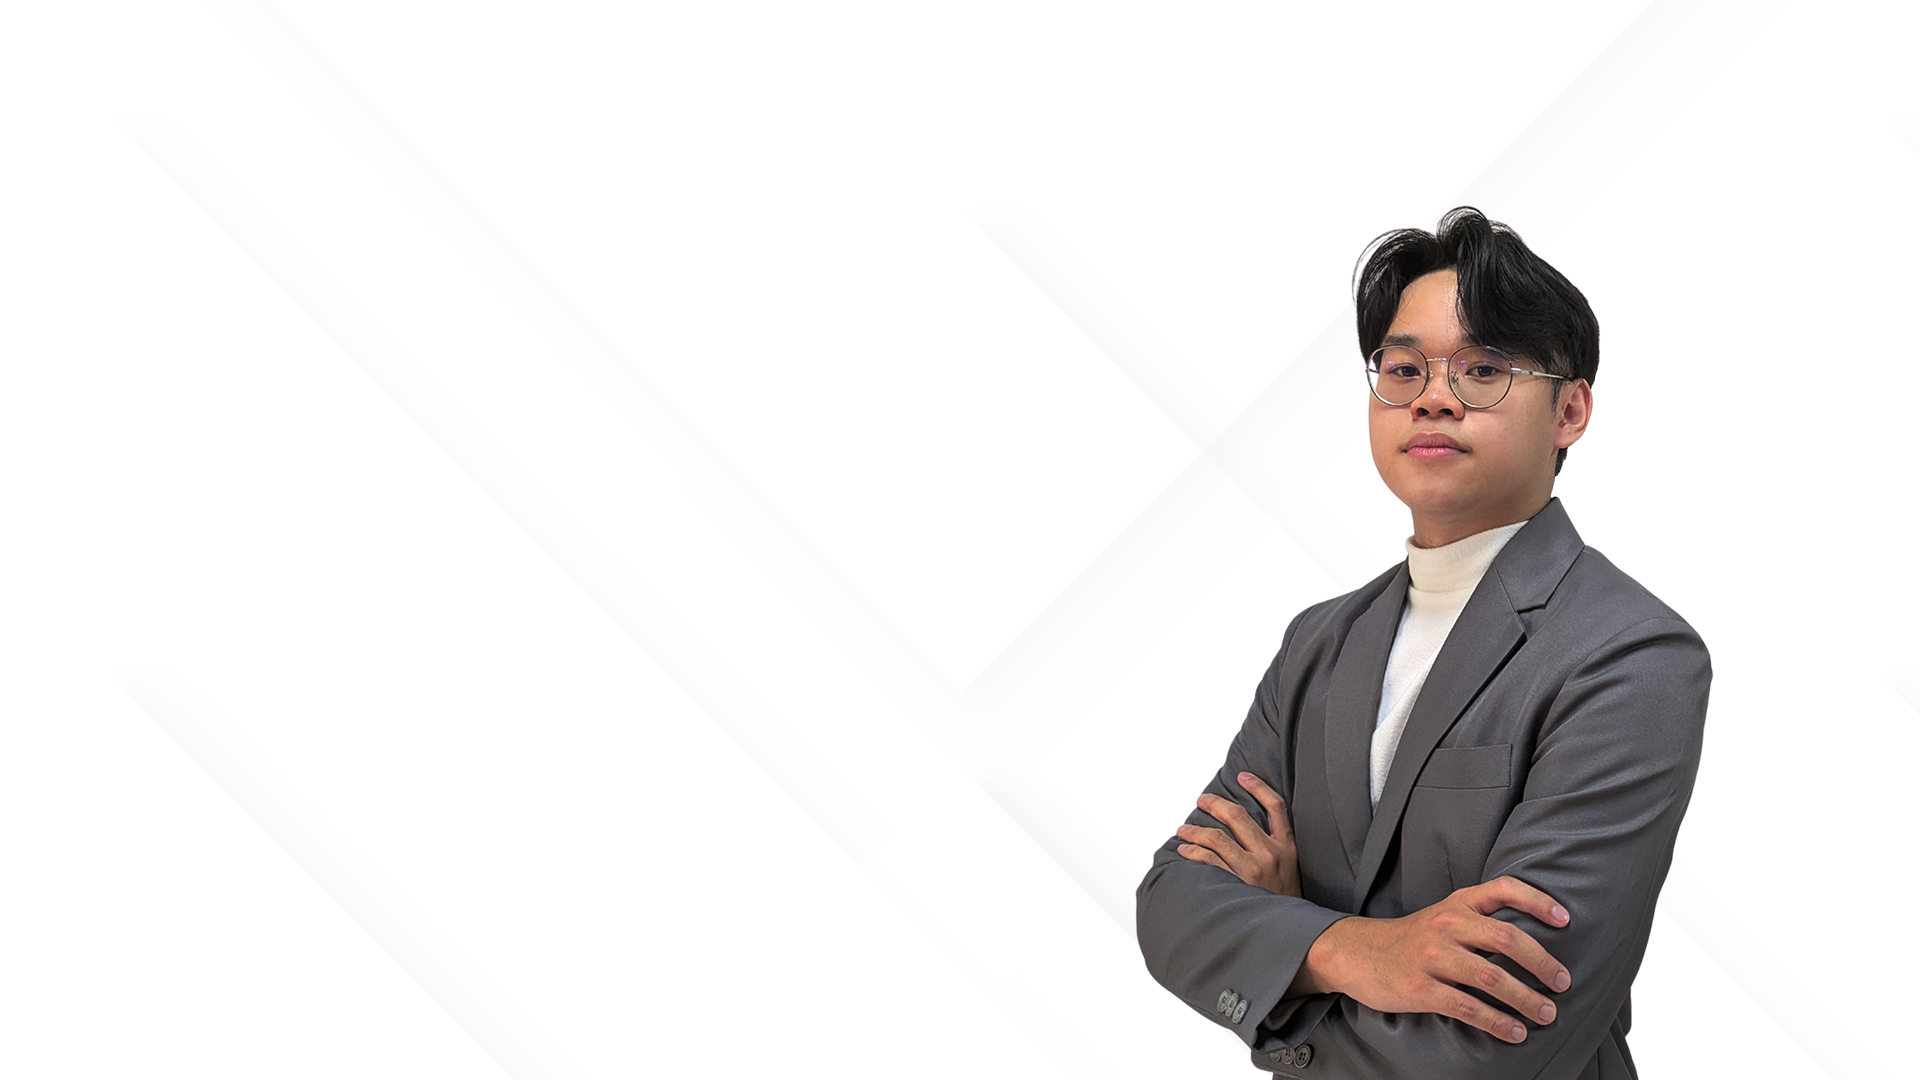
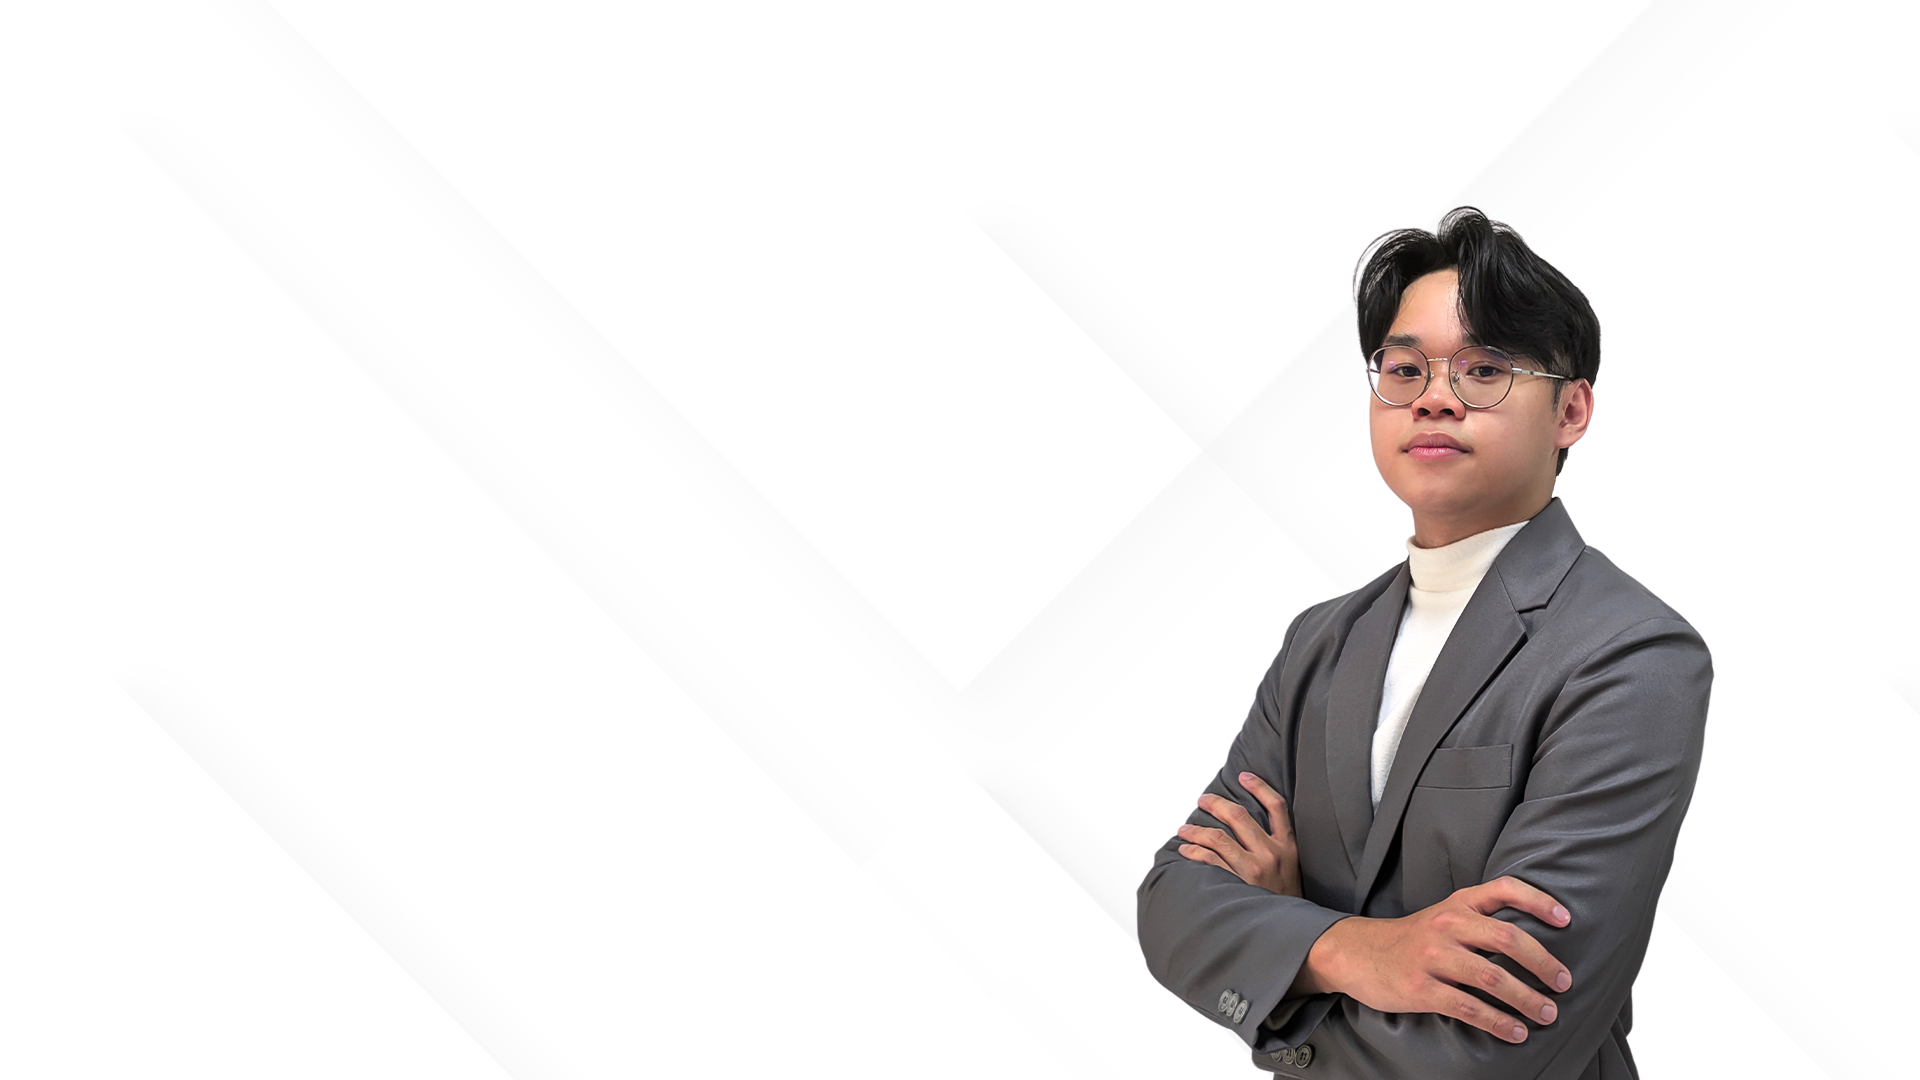
change button shape

diff --git a/components/Hero.tsx b/components/Hero.tsx
@@ -7,7 +7,7 @@ export function Hero() {
       className="relative overflow-hidden border-b border-border bg-background bg-cover bg-center bg-no-repeat"
       style={{ backgroundImage: "url('/bg.png')" }}
     >
-      <div className="pointer-events-none absolute left-8 top-28 h-56 w-56 rounded-full bg-accent/10 blur-3xl" />
+      
       <div className="relative mx-auto flex min-h-[calc(100vh-81px)] max-w-6xl items-center px-5 py-20 sm:px-6 lg:px-8">
         <div className="max-w-3xl">
           <p className="mb-5 inline-flex rounded-full border border-accent/20 bg-accent/5 px-4 py-2 text-sm font-semibold text-accent">
@@ -22,13 +22,13 @@ export function Hero() {
           <div className="mt-8 flex flex-col gap-3 sm:flex-row">
             <a
               href="#projects"
-              className="inline-flex items-center justify-center rounded-lg bg-accent px-6 py-3 text-sm font-semibold text-background transition hover:bg-accent-hover"
+              className="inline-flex items-center justify-center rounded-full bg-accent px-6 py-3 text-sm font-semibold text-background transition hover:bg-accent-hover"
             >
               View My Work
             </a>
             <a
               href="#contact"
-              className="inline-flex items-center justify-center rounded-lg border border-border px-6 py-3 text-sm font-semibold text-primary transition hover:border-accent hover:text-accent"
+              className="inline-flex items-center justify-center rounded-full border border-border px-6 py-3 text-sm font-semibold text-primary transition hover:border-accent hover:text-accent"
             >
               Contact Me
             </a>

diff --git a/components/Navbar.tsx b/components/Navbar.tsx
@@ -29,7 +29,7 @@ export function Navbar() {
         </div>
         <Link
           href="/#contact"
-          className="rounded-lg bg-accent px-5 py-2.5 text-sm font-semibold text-background transition hover:bg-accent-hover"
+          className="rounded-full bg-accent px-5 py-2.5 text-sm font-semibold text-background transition hover:bg-accent-hover"
         >
           Contact
         </Link>
